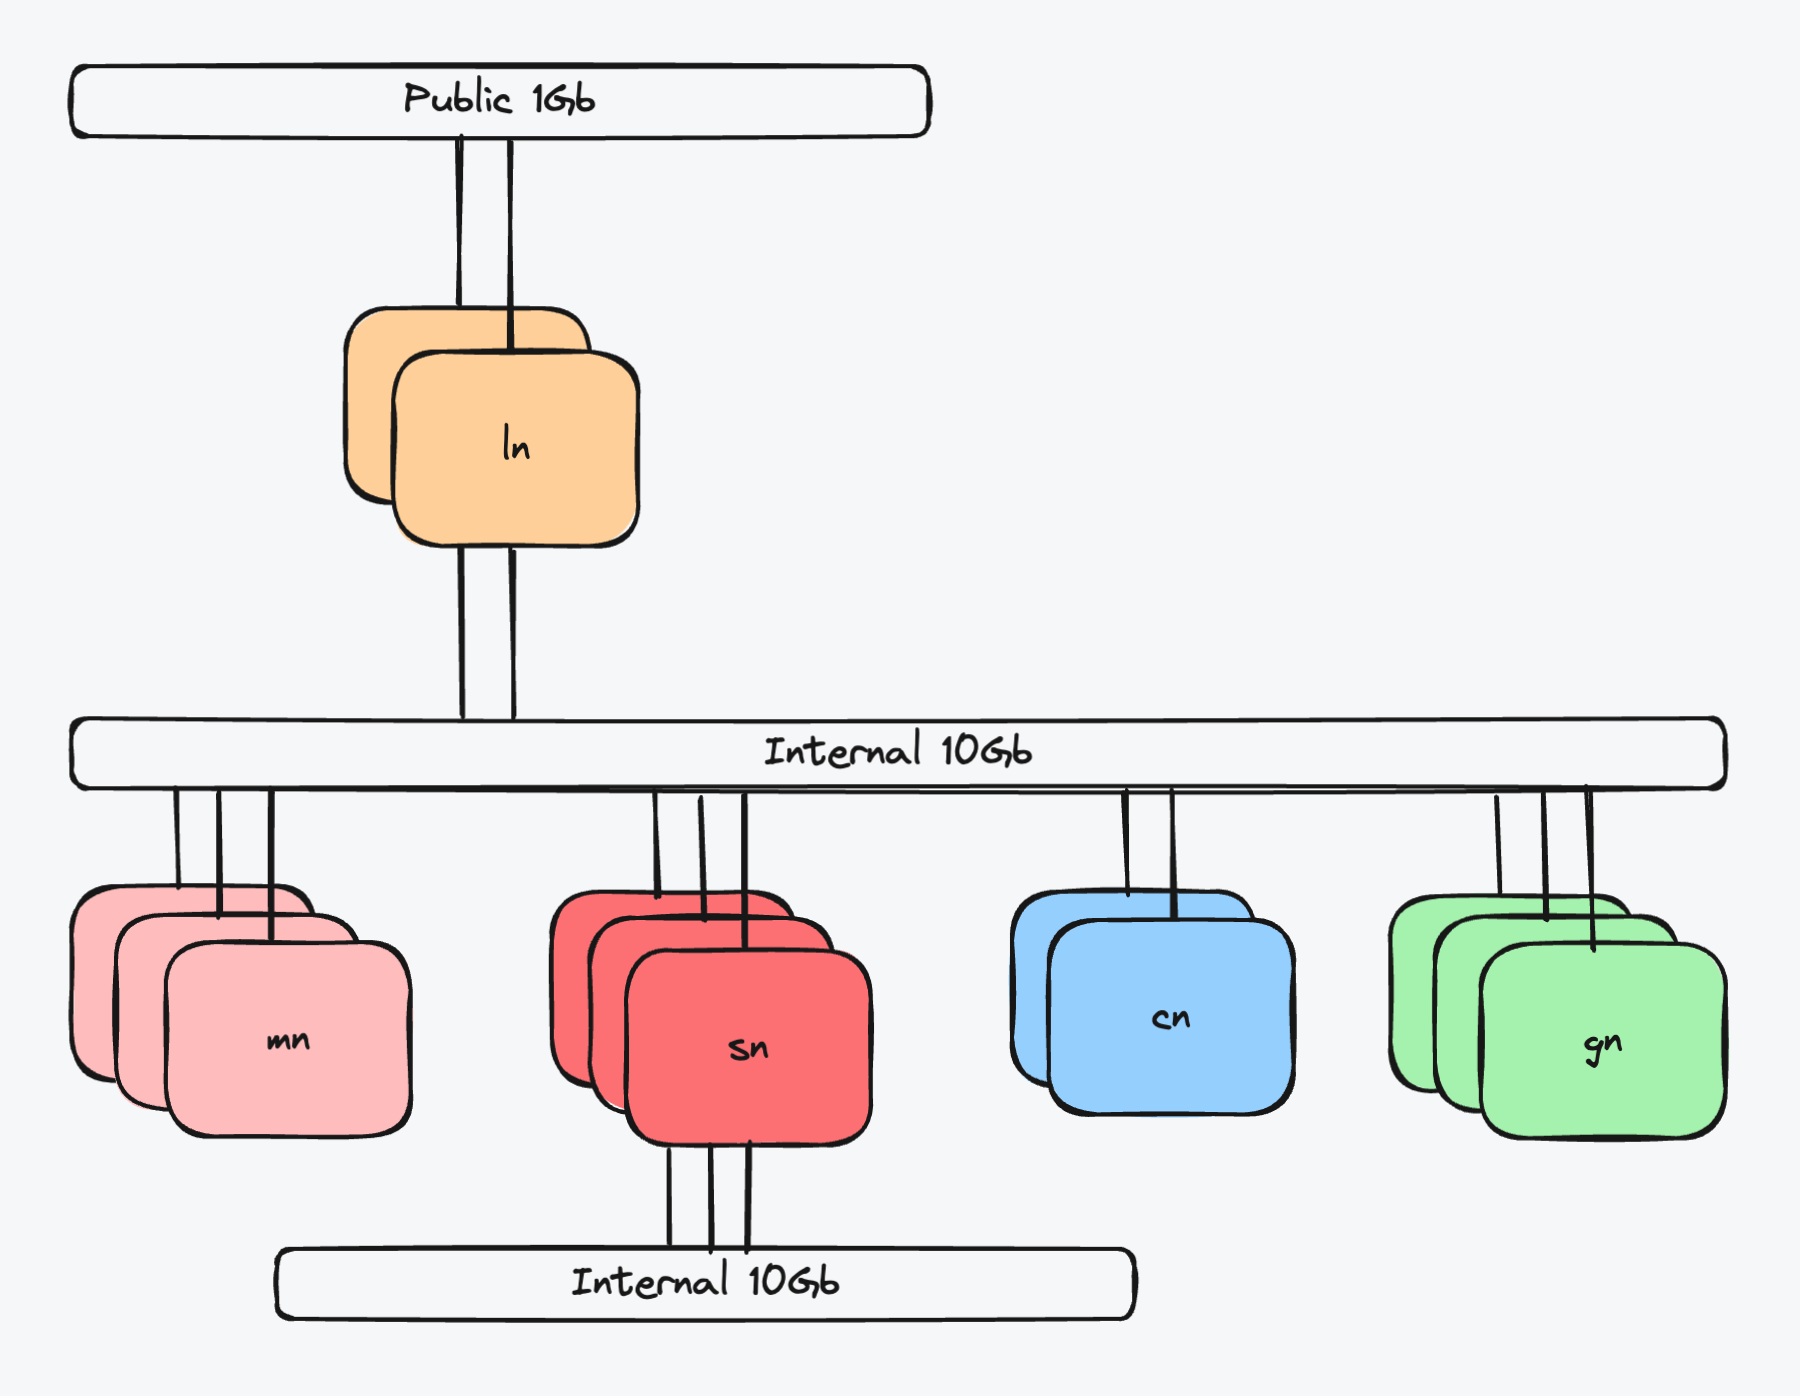
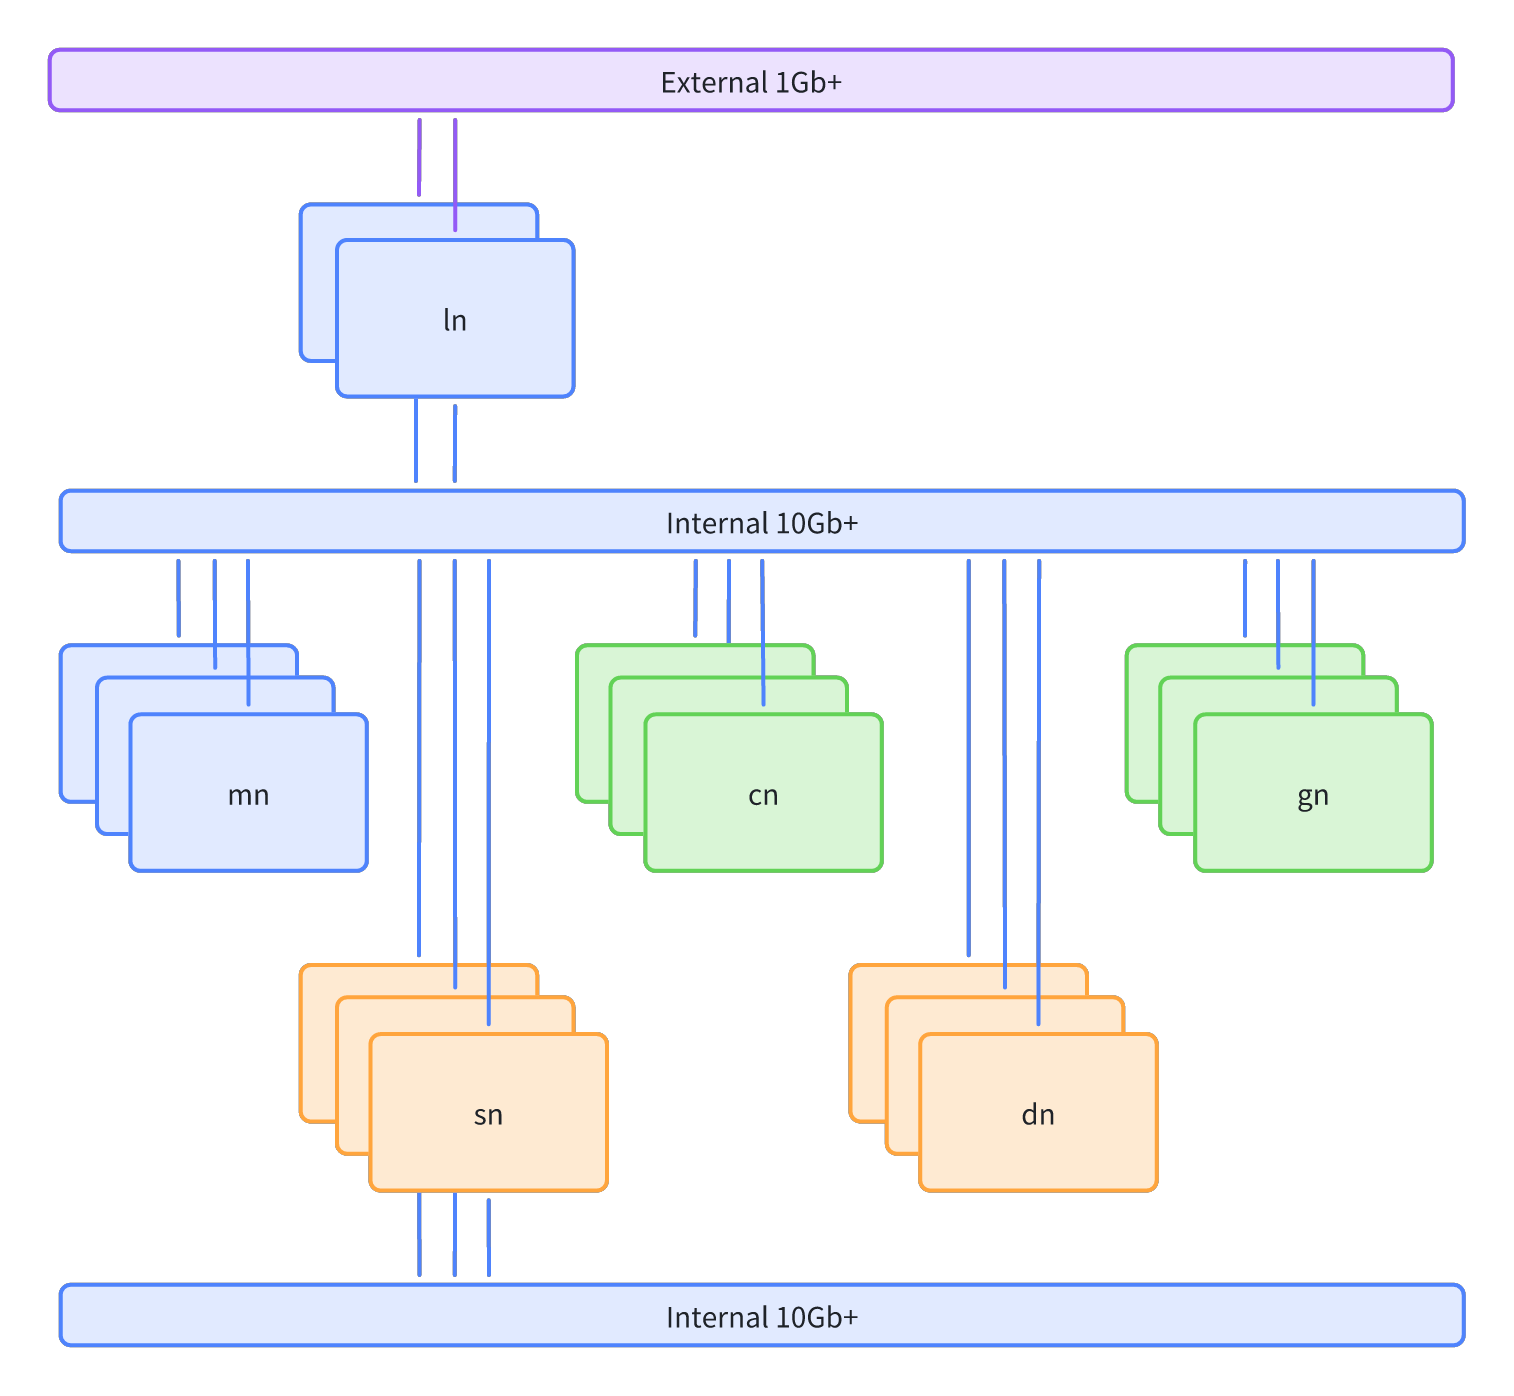
Add k8s architecture diagram

diff --git a/docs/0-prepare.md b/docs/0-prepare.md
@@ -4,15 +4,43 @@
 
 ![k8s-arch](images/k8s-arch.png)
 
-### 节点
+### 集群名称
 
-- mn[01-03]: 提供 K8S 集群管理节点，至少 3 台以满足 HA。
-- ln[01-02]: 提供 K8S 网络负载均衡服务，至少 2 台以满足 HA。
-- sn[001-003]: 提供存储服务，至少 3 台以满足 HA。
-- cn[001-002]：提供纯 CPU 计算负载。
-- gn[001-003]：提供 GPU 计算负载。
+* 格式：<2位字母城市缩写><1位数字序号><1位字母后缀>
+* 城市缩写：例如北京 bj, 上海 sh 和广州 gz 等
+* 数字序号：同一城市下使用内网互联的机房，从数字 1 开始
+* 字母后缀：同一机房下区分不同集群
+  * 编号 a-g: 用于内部生产集群
+  * 编号 h-n: 用于用户集群
+  * 编号 u-z: 用于内部测试集群
+* 示例：
+  * bj1a: 北京第一个机房内部生产集群
+  * sh3u: 上海第三个机房内部测试集群
+  * gz2h: 广州第二个机房用户集群
 
-> 集群最小集为 1 台机器。满足 HA 情况下，最小集为 3 台机器。其他功能节点根据集群大小均可以合并到 mn 节点中。
+### DNS 命名
+
+> example.com 为示例域名，根据实际情况进行替换
+
+* 对外服务：*.<集群名称>.example.com, 例如 *.bj1a.example.com
+* 对内服务：*.<集群名称>-int.example.com, 例如 *.bj1a-int.example.com
+
+### 节点命名
+
+* 管理节点：mn[01-07].<集群名称>.local, 例如 mn01.bj1a.local
+  * 生产集群至少 3 节点满足 HA 需要，最大 7 节点
+  * 测试集群至少 1 节点，可以与计算节点复用
+* 网络负载均衡节点：ln[01-99].<集群名称>.local, 例如 ln01.bj1a.local
+  * 生产集群至少 2 节点满足 HA 需要, 推荐配置独立节点 (酌情复用管理节点)
+  * 测试集群复用管理节点
+* 存储节点：sn[01-99].<集群名称>.local, 例如 sn001.bj1a.local
+  * 生产集群至少 3 节点满足 HA 需要, 推荐配置独立节点 (酌情复用管理节点)
+  * 测试集群复用管理节点
+* 数据库节点：dn[01-99].<集群名称>.local, 例如 dn01.bj1a.local
+  * 生产集群至少 2 节点满足 HA 需要, 推荐配置独立节点 (酌情复用管理节点)
+  * 测试集群复用管理节点
+* CPU 计算节点：cn[001-999].<集群名称>.local, 例如 cn001.bj1a.local
+* GPU 计算节点：gn[001-999].<集群名称>.local, 例如 gn001.bj1a.local
 
 ### 网络
 
@@ -22,16 +50,10 @@
 
 > 可以根据具体业务和用户需求调整网络配置。
 
-### 存储
-
-- 至少 3 台各插入 1 块本地 SSD 存储服务器
-
-> 如果有外置存储服务则可选，存储服务尽可能分离以避免潜在互相影响，如果条件有限可以复用 mn 节点作为存储服务器。
-
 ### 软件
 
 - OS: ubuntu 22.04
-- K8S: [k3s](https://k3s.io/) v1.29
+- K8S: [k3s](https://k3s.io/) v1.30
 - Ceph: [ceph](https://docs.ceph.com/en/latest/releases/) v18.2
 
 > 更多需求可以参考 [k3s requirements](https://docs.k3s.io/zh/installation/requirements)
@@ -52,10 +74,10 @@ network:
   ethernets:
     eth0:
       addresses:
-      - 10.0.3.158/22
+      - 10.128.0.1/16
       routes:
       - to: default
-        via: 10.0.0.1
+        via: 10.128.255.254
       nameservers:
         addresses:
         - 223.5.5.5
@@ -64,6 +86,8 @@ network:
       match:
         macaddress: fa:16:3e:f1:c3:fd
       set-name: eth0
+EOF
+netplan apply
 ```
 
 * 如果是 bonding 设备，把 `bond0` 替换为 `eth0` 即可
@@ -72,24 +96,19 @@ network:
 
 ```sh
 # 所有节点根据自身名字进行设置
-hostnamectl set-hostname mn01.dev1.local
+hostnamectl set-hostname mn01.bj1a.local
 ```
-
-> play 根据集群用途或者地域设置，例如 dev1, bj1 等
 
 ```sh
 # 在 mn01 节点配置 hosts
 cat << 'EOF' >> /etc/hosts
 # mn
-10.0.3.158  mn01.dev1.local mn01
-10.0.0.27   mn02.dev1.local mn02
-10.0.1.98   mn03.dev1.local mn03
-
-# cn
-10.0.1.40   cn001.dev1.local cn001
+10.128.0.1  mn01.bj1a.local mn01
+10.128.0.2  mn02.bj1a.local mn02
+10.128.0.3  mn03.bj1a.local mn03
 
 # gn
-10.0.1.51   gn001.dev1.local gn001
+10.128.1.1  gn001.bj1a.local gn001
 EOF
 ```
 
@@ -192,6 +211,8 @@ pdsh -w ^all cat /sys/devices/system/cpu/cpu*/cpufreq/scaling_available_governor
 ```
 
 ### 锁定内核版本，避免驱动失效
+
+> 确保所有节点使用一致的内核版本后，再进行锁定
 
 ```sh
 cat << 'EOF' > nolinuxupgrades
